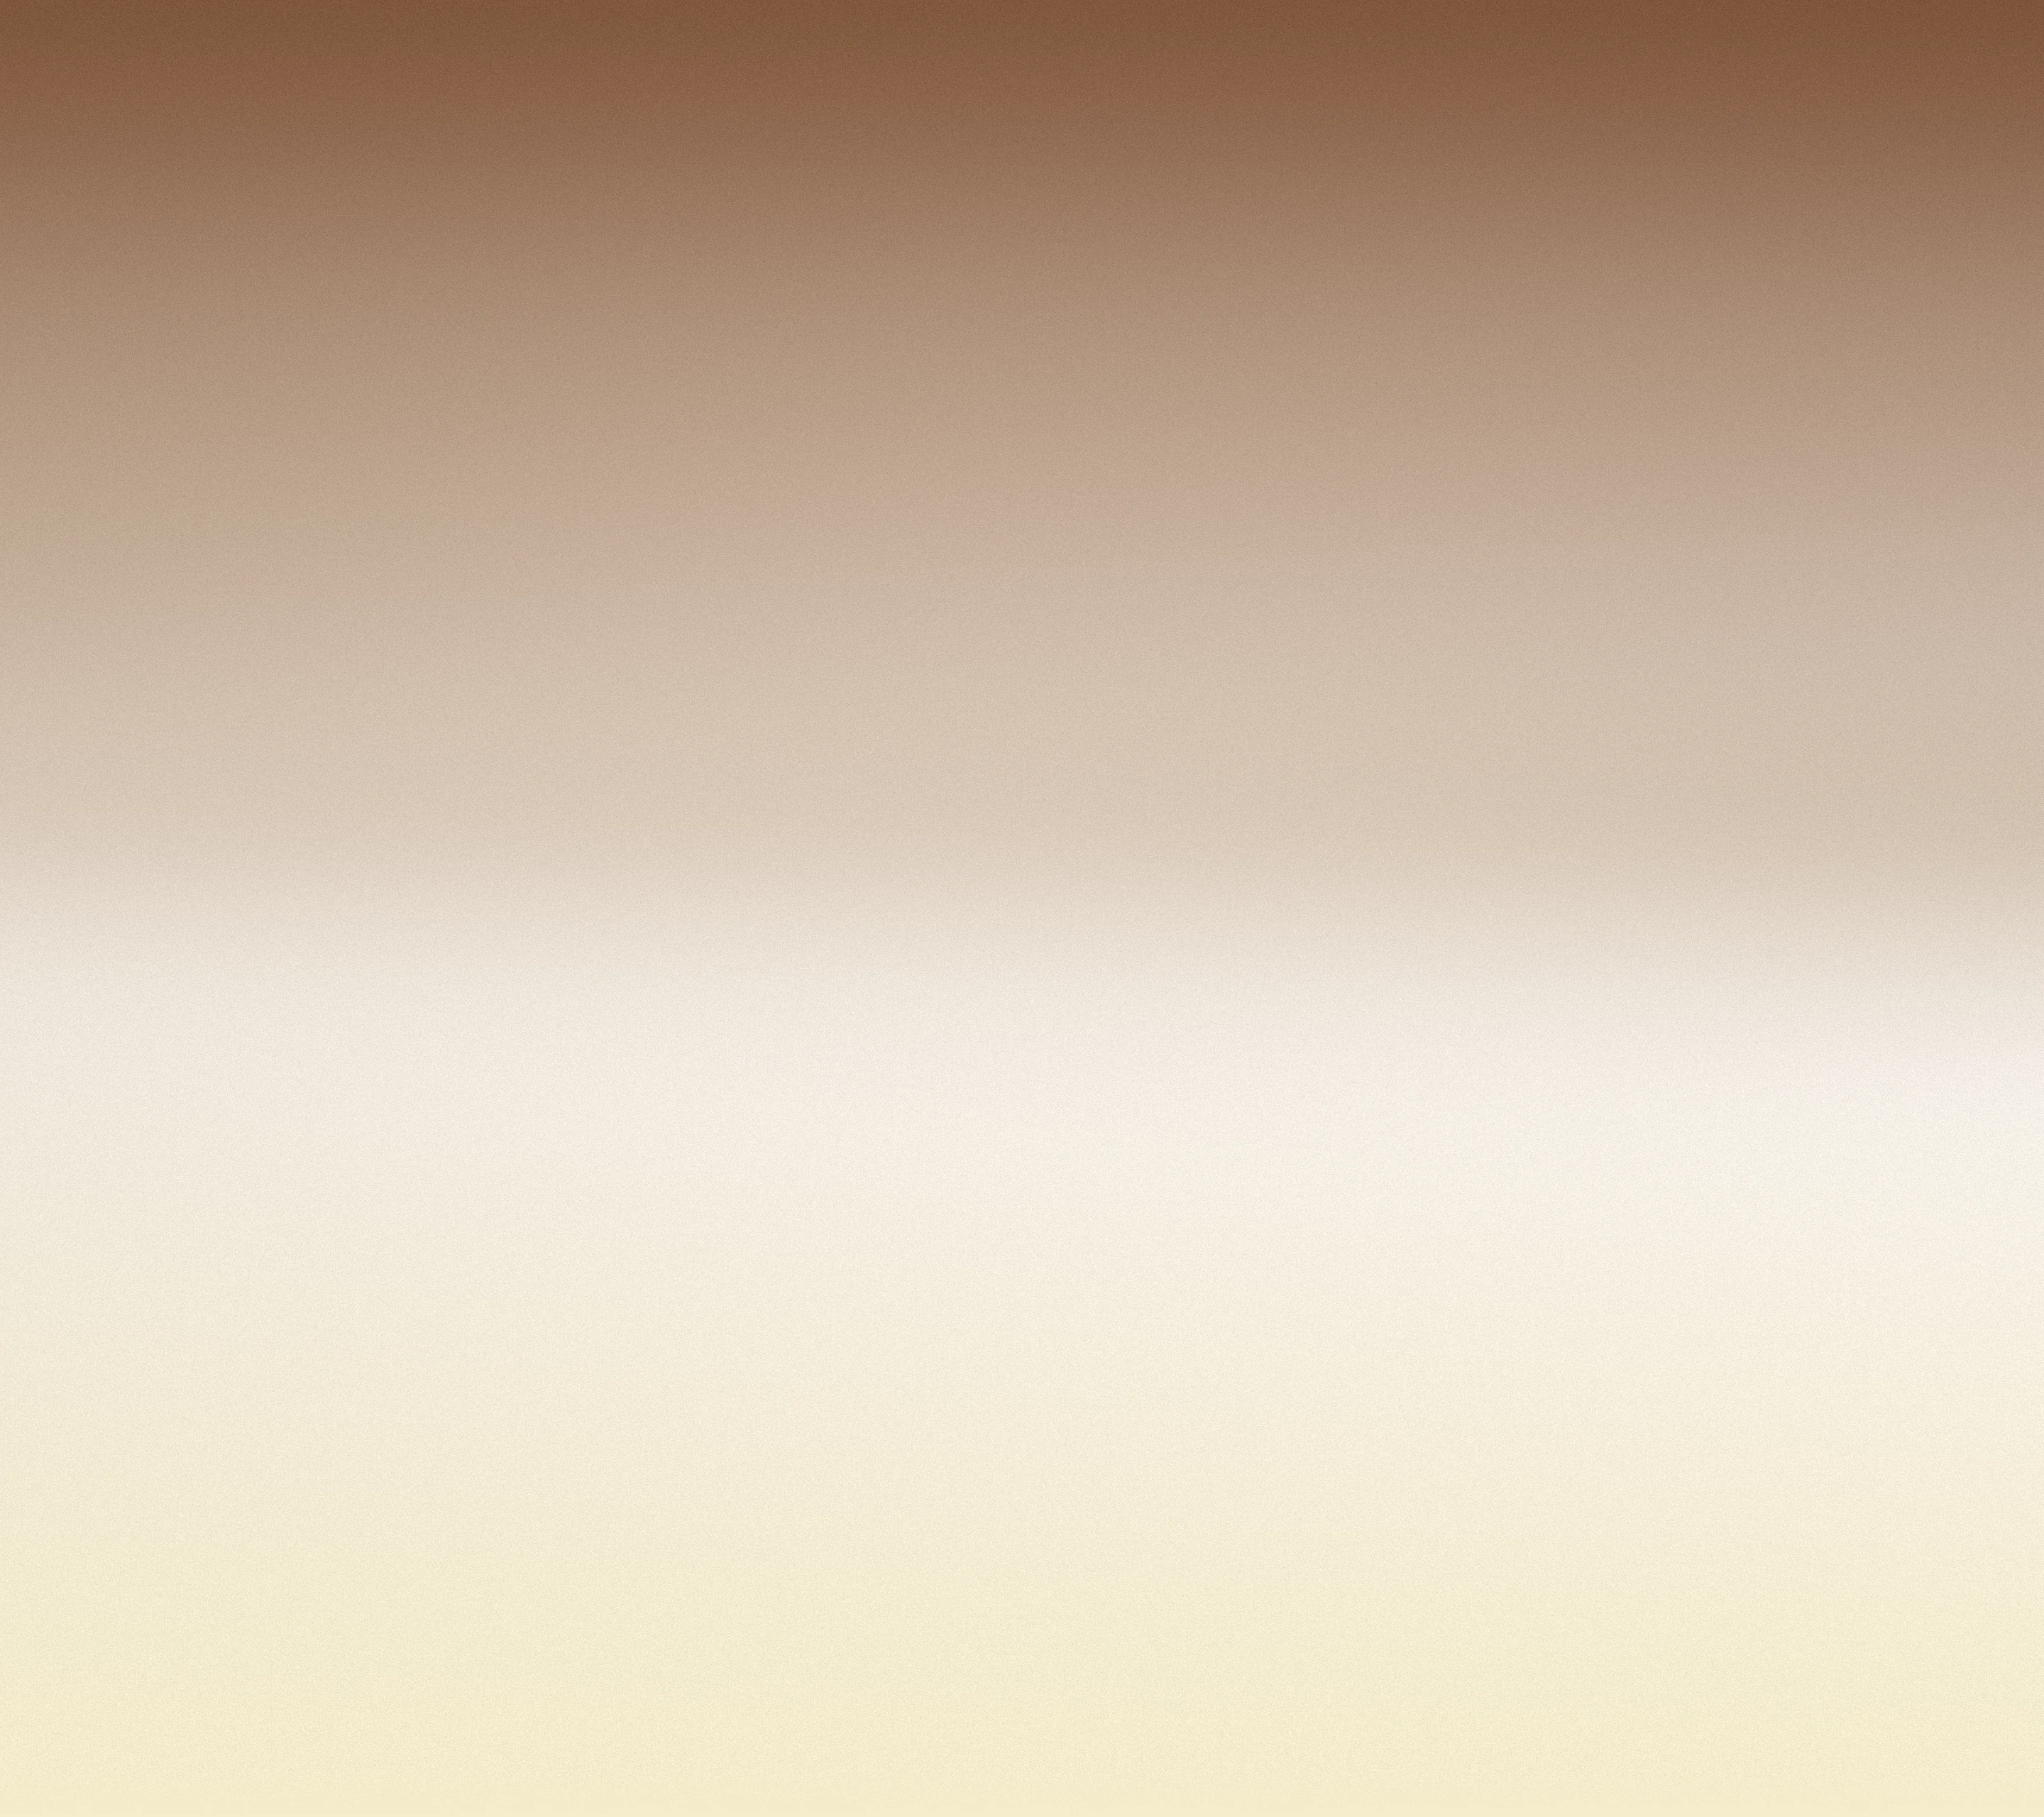
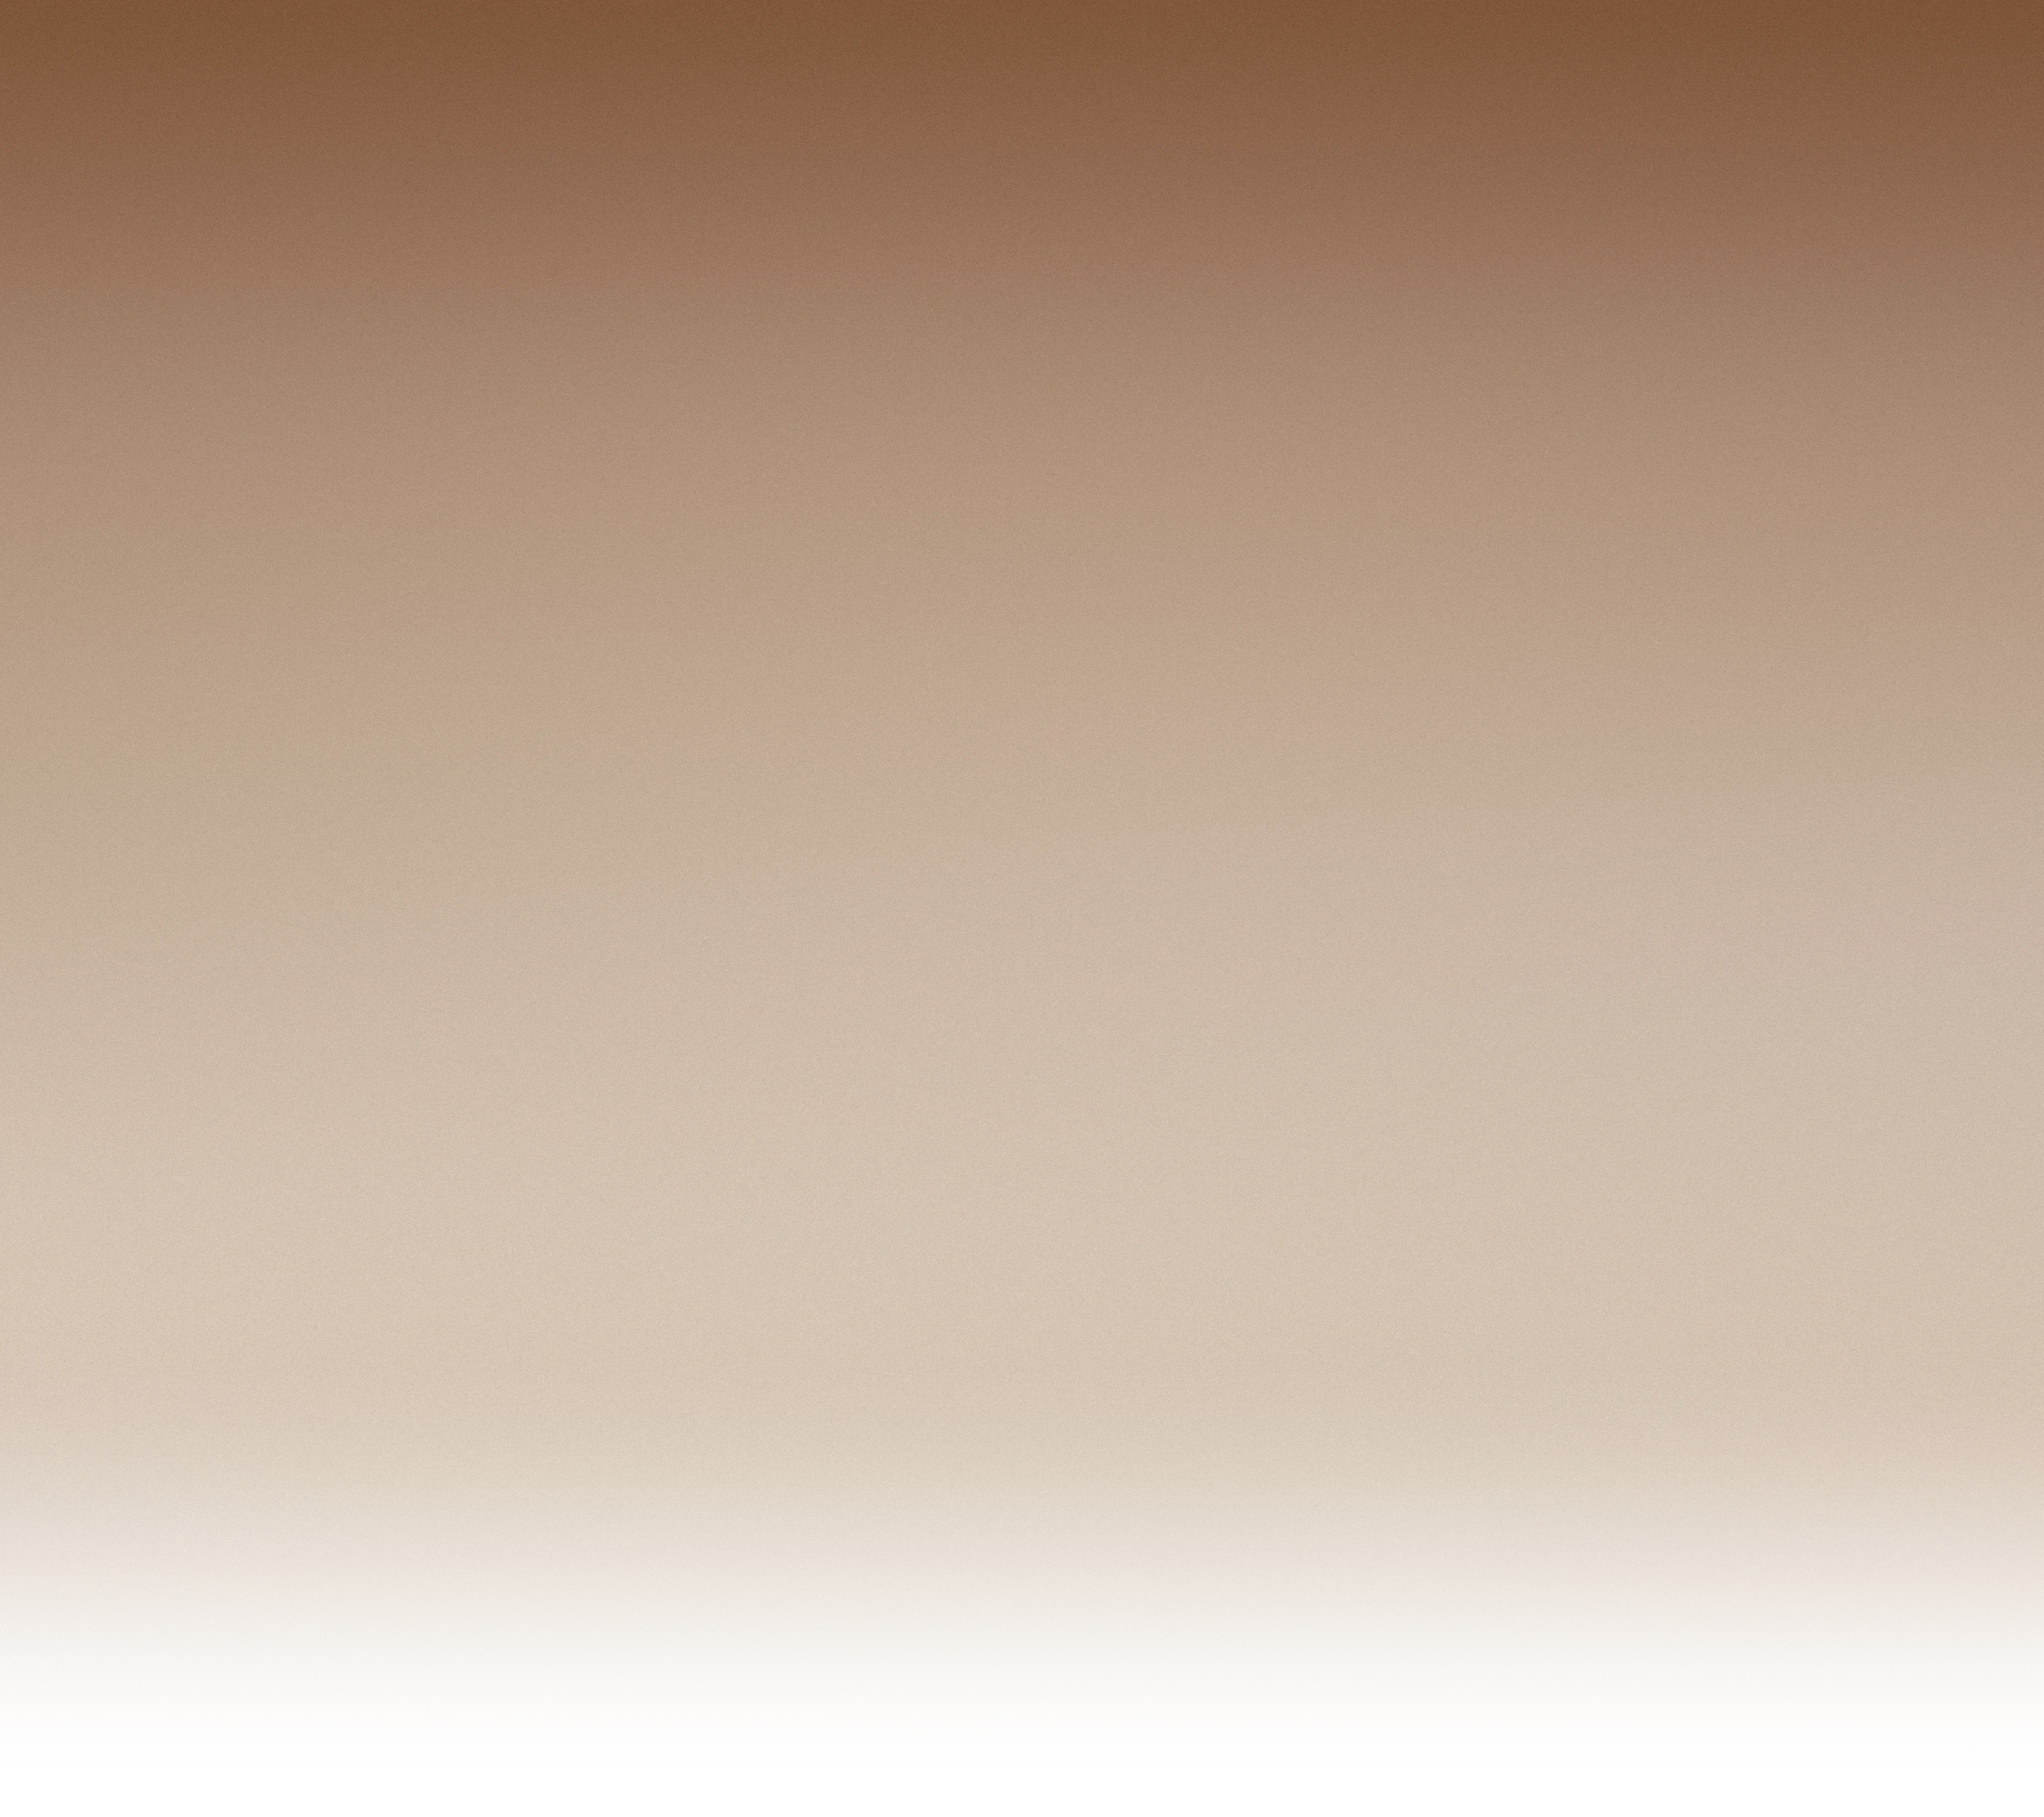
feat(marketing): fade home hero field to paper

diff --git a/apps/marketing/src/components/home/HomeHero.module.css b/apps/marketing/src/components/home/HomeHero.module.css
@@ -5,7 +5,7 @@
   min-height: 100svh;
   overflow: hidden;
   color: var(--home-paper);
-  background-color: #7e563e;
+  background-color: var(--home-paper);
   border-bottom: 1px solid var(--home-line);
   isolation: isolate;
 }

diff --git a/apps/marketing/scripts/bake-home-hero-assets.py b/apps/marketing/scripts/bake-home-hero-assets.py
@@ -5,6 +5,9 @@ By default, this writes the production field used by `/`:
 
   public/home/hero/field.webp
 
+The field keeps the champagne body low in the frame, then fades the bottom band
+to transparency so the hero can land on the page paper without a yellow edge.
+
 Pass `--prints-dir` to rebuild the curated print cards from an image pool whose
 files are named by their source index, for example `04.jpg`.
 """
@@ -35,6 +38,8 @@ PRINT_QUALITY = 84
 PRINT_ASPECT = 22 / 30
 PRINT_HEIGHT = 900
 SEED = 20260703
+ALPHA_FADE_START = 0.74
+ALPHA_FADE_END = 0.98
 
 Rgb = tuple[int, int, int]
 GradientStop = tuple[float, Rgb]
@@ -97,31 +102,25 @@ def hex_color(value: str) -> Rgb:
     return tuple(int(value[index : index + 2], 16) for index in (1, 3, 5))
 
 
-BOTTOM_CREAM = oklch_to_srgb(0.94, 0.045, 95)
-
 LEFT_LADDER: Sequence[GradientStop] = (
     (0.00, hex_color("#7C5338")),
-    (0.08, hex_color("#8E6950")),
-    (0.16, hex_color("#A68871")),
-    (0.25, hex_color("#B79E88")),
-    (0.33, hex_color("#C4AF9B")),
-    (0.40, hex_color("#D3C2B0")),
-    (0.46, hex_color("#D6C7B7")),
-    (0.52, hex_color("#ECE4D9")),
-    (0.60, hex_color("#EFE8DC")),
-    (1.00, BOTTOM_CREAM),
+    (0.10, hex_color("#8E6950")),
+    (0.22, hex_color("#A68871")),
+    (0.36, hex_color("#B79E88")),
+    (0.50, hex_color("#C4AF9B")),
+    (0.64, hex_color("#D3C2B0")),
+    (0.74, hex_color("#D6C7B7")),
+    (1.00, hex_color("#D6C7B7")),
 )
 RIGHT_LADDER: Sequence[GradientStop] = (
     (0.00, hex_color("#7B5136")),
-    (0.08, hex_color("#8D6850")),
-    (0.16, hex_color("#A68872")),
-    (0.25, hex_color("#B89F8B")),
-    (0.33, hex_color("#C8B5A4")),
-    (0.40, hex_color("#CEBDAB")),
-    (0.46, hex_color("#CEBDAA")),
-    (0.52, hex_color("#E4DACE")),
-    (0.60, hex_color("#F7F1EB")),
-    (1.00, BOTTOM_CREAM),
+    (0.10, hex_color("#8D6850")),
+    (0.22, hex_color("#A68872")),
+    (0.36, hex_color("#B89F8B")),
+    (0.50, hex_color("#C8B5A4")),
+    (0.64, hex_color("#CEBDAB")),
+    (0.74, hex_color("#D3C2B0")),
+    (1.00, hex_color("#D3C2B0")),
 )
 
 
@@ -171,24 +170,37 @@ def build_field() -> np.ndarray:
     return field + glow[:, :, None] * 7.0
 
 
+def smoothstep(edge_start: float, edge_end: float, values: np.ndarray) -> np.ndarray:
+    progress = np.clip((values - edge_start) / (edge_end - edge_start), 0, 1)
+    return progress * progress * (3 - 2 * progress)
+
+
+def build_alpha() -> np.ndarray:
+    vertical_position = np.linspace(0, 1, FIELD_HEIGHT)[:, None, None]
+    alpha = 1 - smoothstep(ALPHA_FADE_START, ALPHA_FADE_END, vertical_position)
+    alpha[-4:, :, :] = 0
+    return np.broadcast_to(alpha * 255, (FIELD_HEIGHT, FIELD_WIDTH, 1))
+
+
 def bake_field(output_dir: Path, variants: Sequence[FieldVariant]) -> None:
     field = build_field()
     fade = np.clip((1.0 - np.linspace(0, 1, FIELD_HEIGHT)) * 40, 0, 1)
     fade = fade[:, None, None]
+    alpha = build_alpha()
 
     output_dir.mkdir(parents=True, exist_ok=True)
     for variant in variants:
         rng = np.random.default_rng(SEED)
         grain = rng.normal(0.0, variant.grain_sigma, (FIELD_HEIGHT, FIELD_WIDTH, 1))
         field_variant = field + grain * fade
-        field_variant[-4:, :, :] = np.array(BOTTOM_CREAM, dtype=float)
+        rgba = np.concatenate([np.clip(field_variant, 0, 255), alpha], axis=2)
 
-        image = Image.fromarray(np.clip(field_variant, 0, 255).astype(np.uint8))
+        image = Image.fromarray(rgba.astype(np.uint8))
         path = output_dir / variant.name
         image.save(path, quality=FIELD_QUALITY, method=6)
         print(
             f"field -> {path} ({path.stat().st_size // 1024} KB), "
-            f"bottom rgb{BOTTOM_CREAM}",
+            f"alpha fades from {ALPHA_FADE_START:.2f} to {ALPHA_FADE_END:.2f}",
         )
 
 